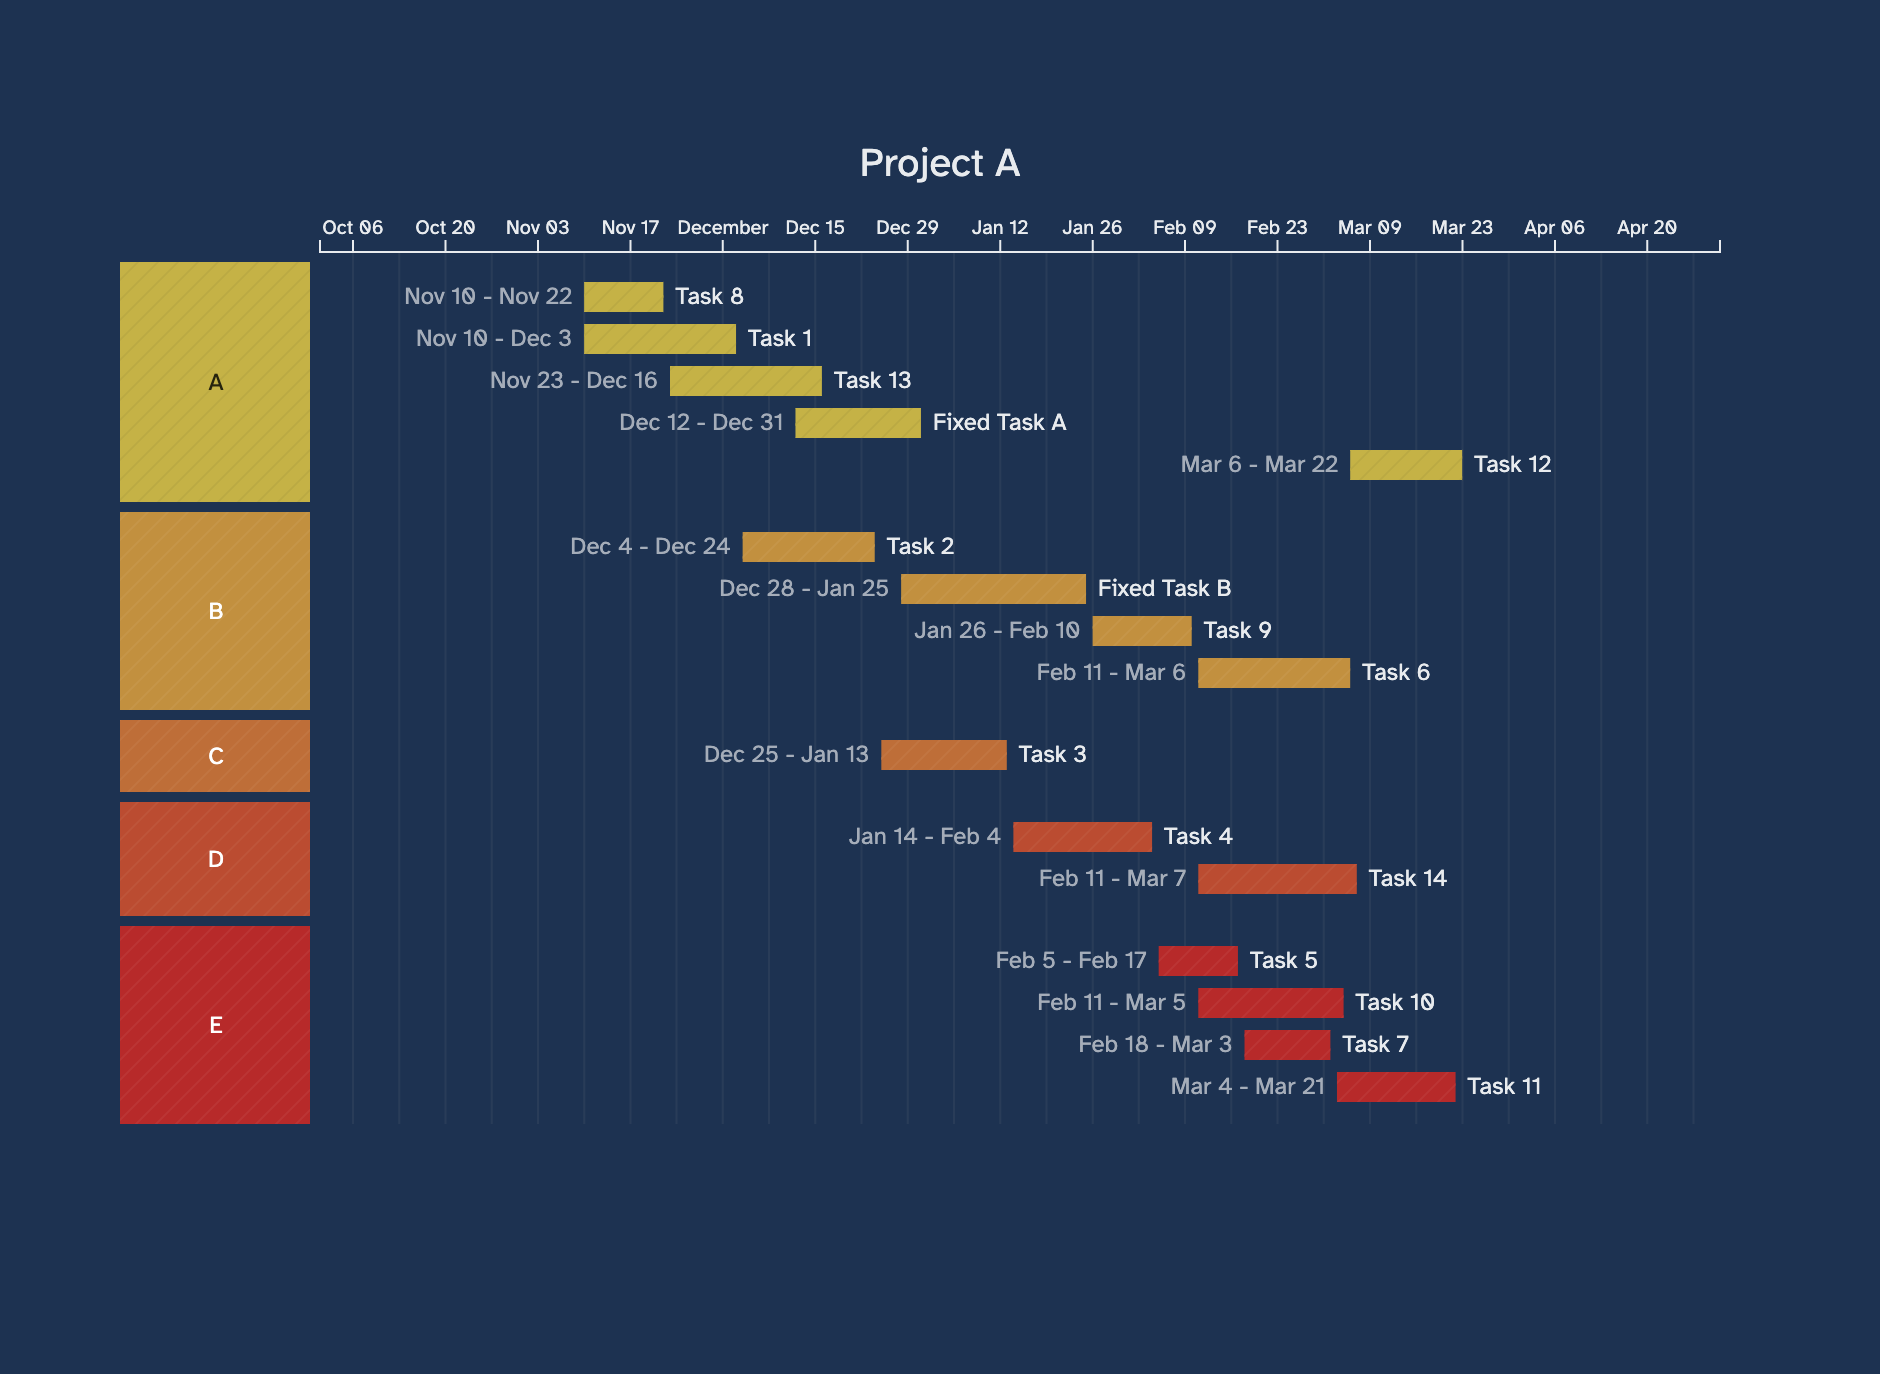
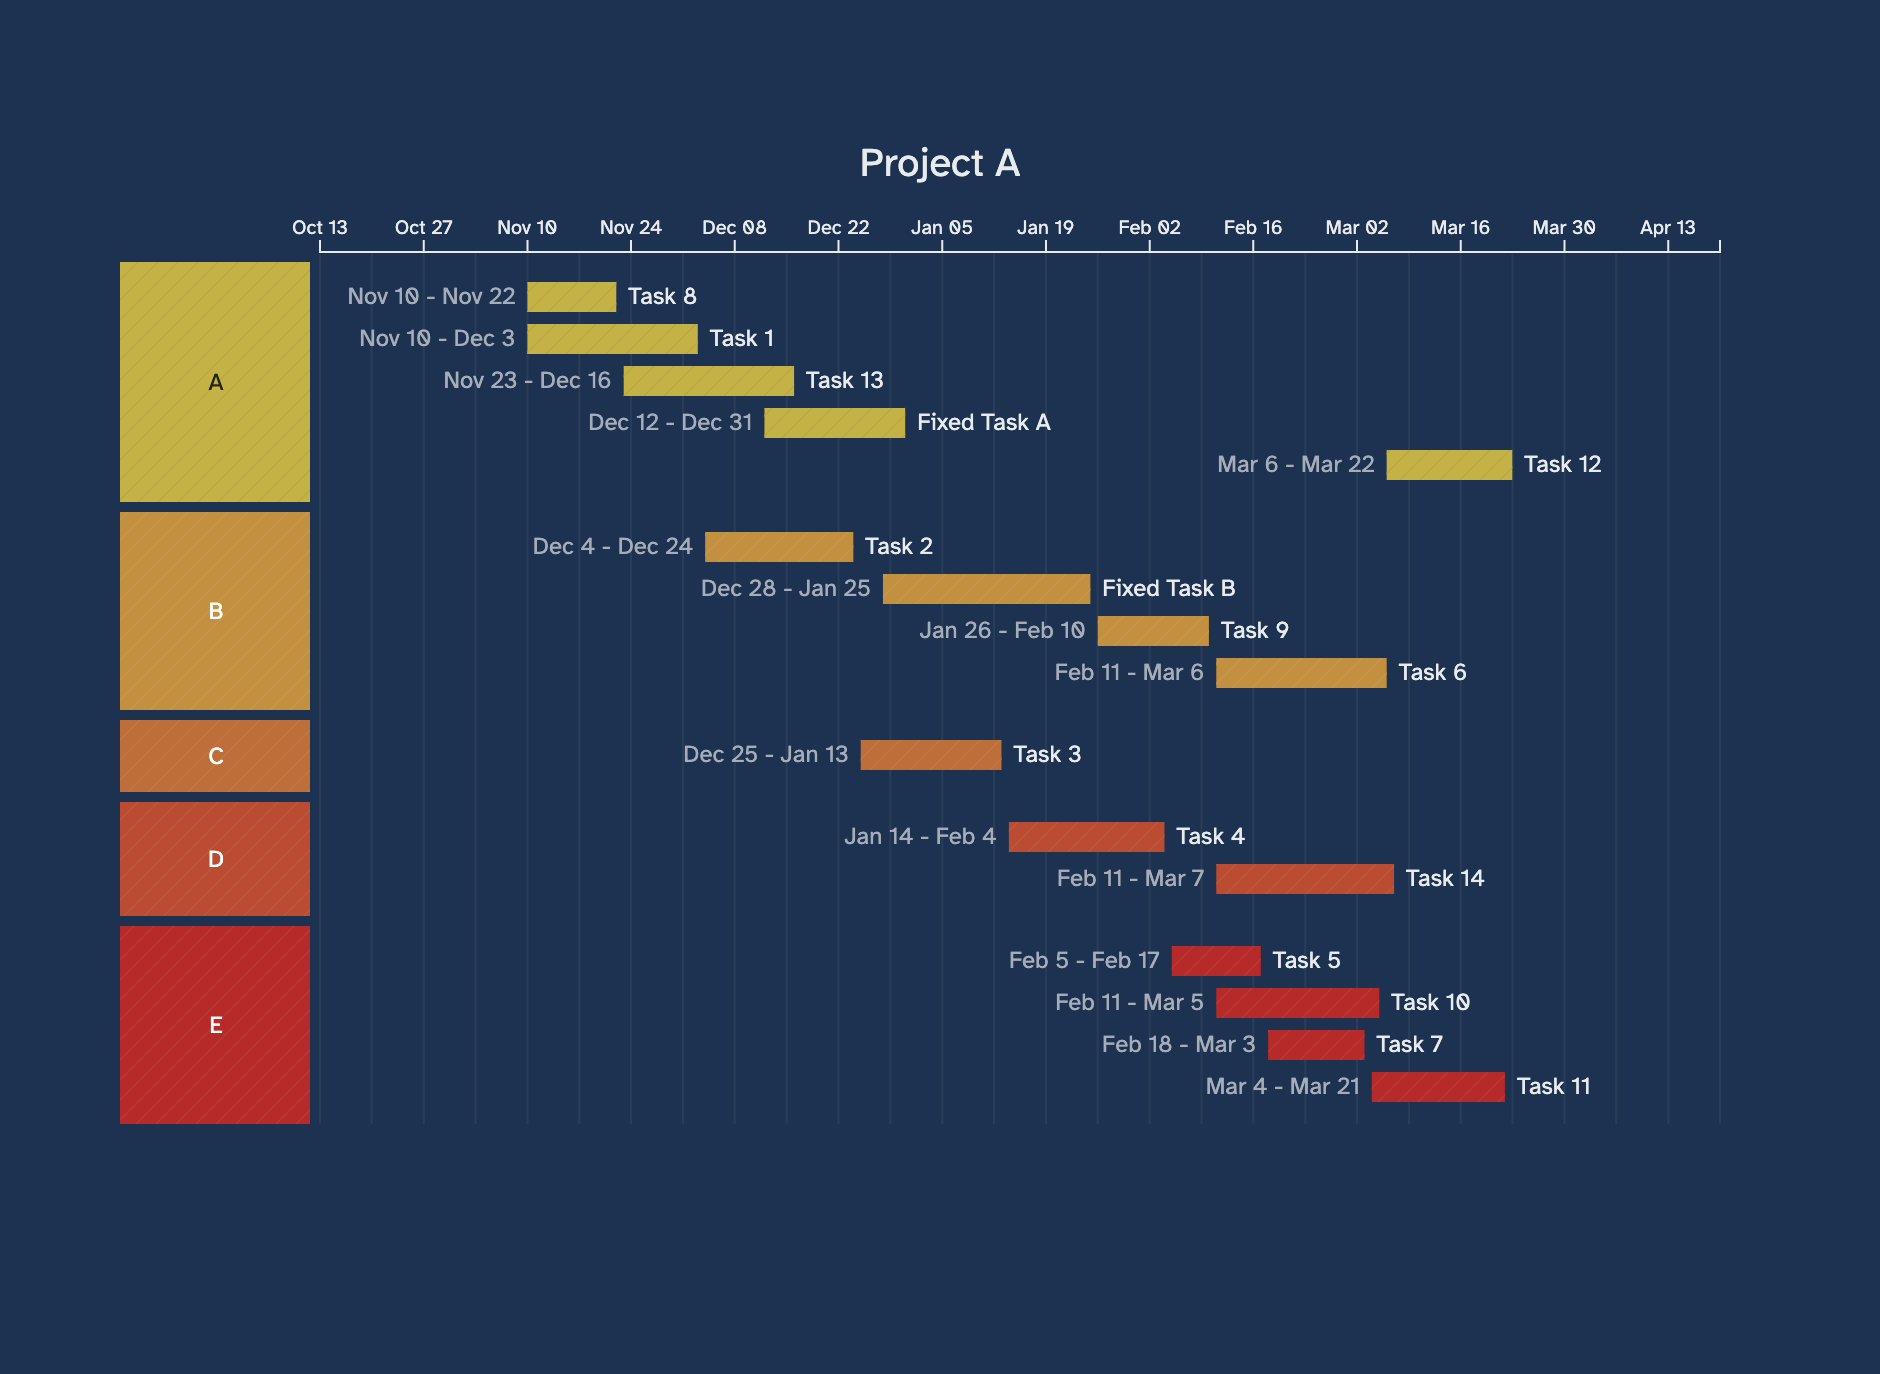
Fix handling of `nice()` (#31)
* fix nice and regrender images

* rerender

diff --git a/index.js b/index.js
@@ -1234,7 +1234,7 @@ function renderTimeline(rawTimeline) {
     const taskHeight = parseIntOrDefault(timeline.config.padding?.taskHeight, 15);
     const taskPadding = parseIntOrDefault(timeline.config.padding?.tasks, 5);
     const swimlanePadding = parseIntOrDefault(timeline.config.padding?.swimlanes, 5);
-    const dateScalePaddingPercent = parseIntOrDefault(timeline.config.padding?.dateScale, 20) * 0.01;
+    const dateScalePaddingPercent = parseIntOrDefault(timeline.config.padding?.dateScale, 16) * 0.01;
     const chartPaddingX = parseIntOrDefault(
         timeline.config.padding?.chartX,
         DEFAULT_PADDING_CHARTX,
@@ -1408,7 +1408,7 @@ function renderTimeline(rawTimeline) {
         .scaleUtc()
         .domain([minScaleDate, maxScaleDate])
         .range([chartMarginLeft + chartPaddingX, width - chartMarginRight + chartPaddingX])
-        .nice();
+        .nice(xAxisGridTicks);
 
     const xAxisGrid = svg
         .selectAll("line.horizontalGrid")
